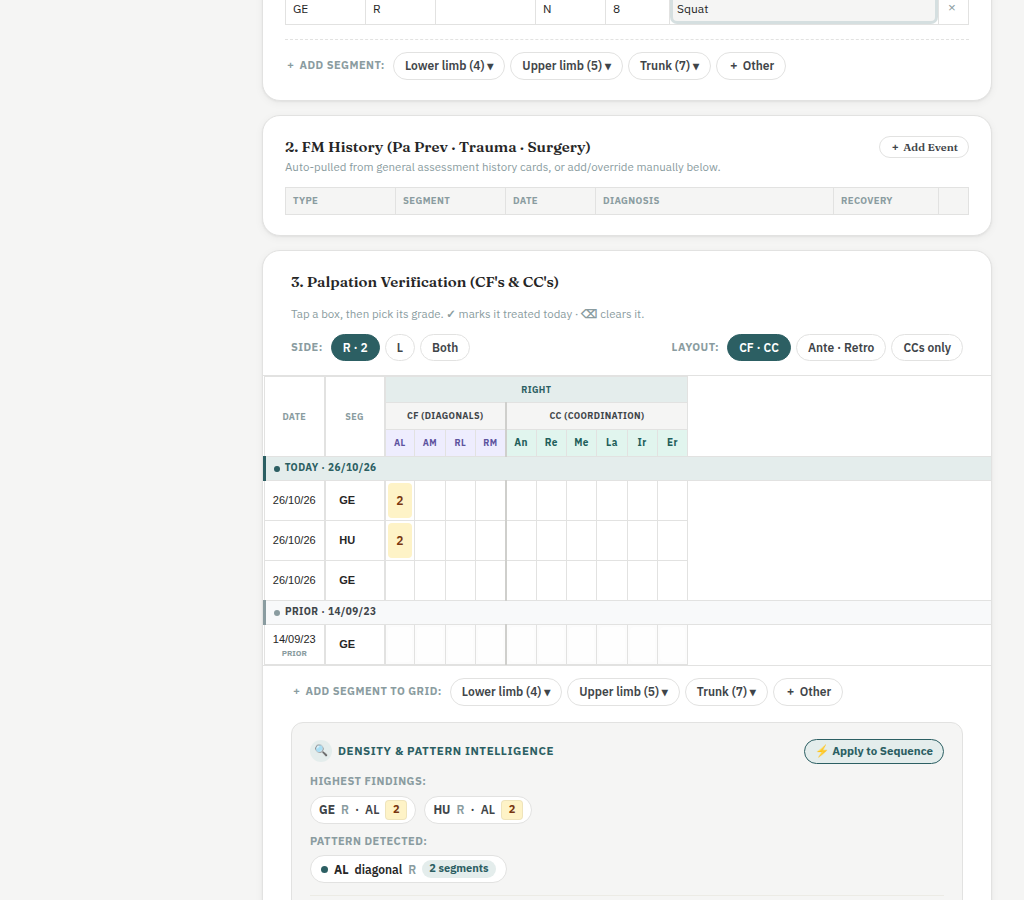
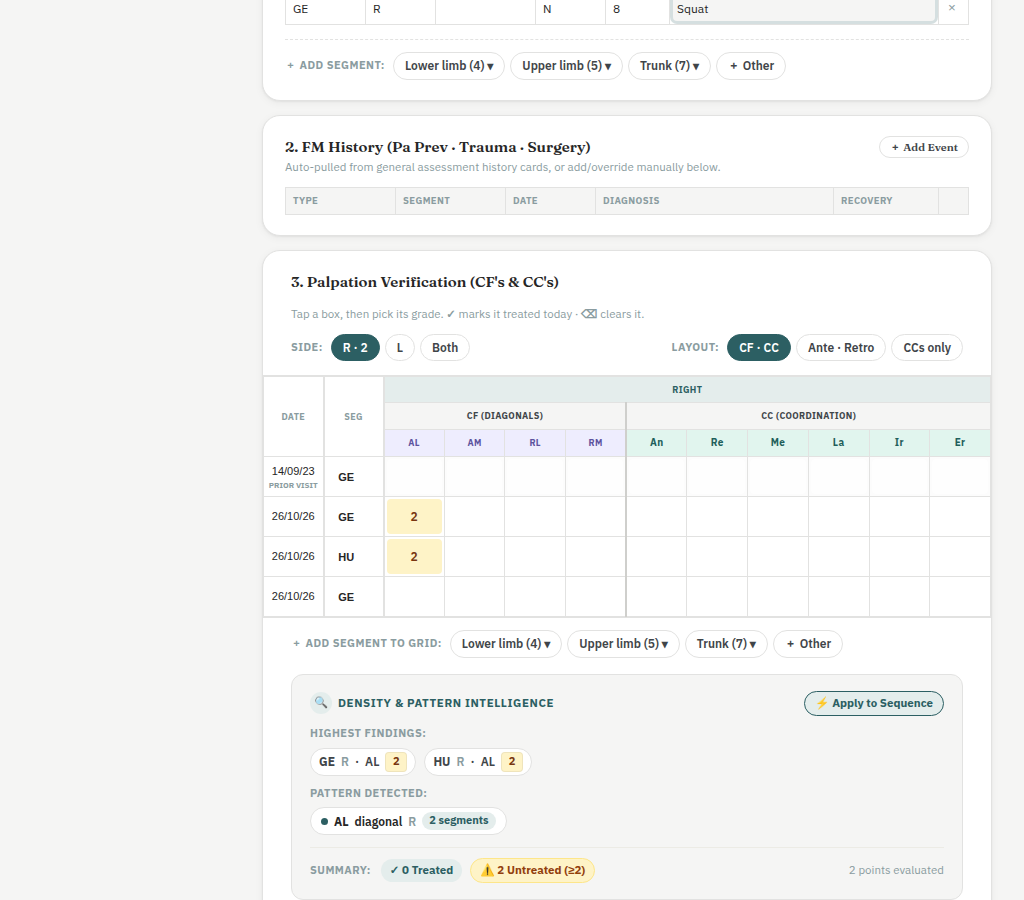
feat(fm): decouple complaints autofill from PV table, restore per-row dates, and verify core assessment wiring

diff --git a/clinical-note.html b/clinical-note.html
@@ -578,31 +578,7 @@
   
   .pv-t th.sticky-col, .pv-t td.sticky-col { position:sticky; left:0; background:#fff; z-index:2; border-right:2px solid var(--line); }
   .pv-t th.sticky-col:nth-child(2), .pv-t td.sticky-col:nth-child(2) { left:60px; }
-
-  /* Session side heading rows in PV grid */
-  .pv-t tr.pv-session-banner-row td {
-    padding: 3px 6px !important;
-    height: 24px !important;
-    text-align: left !important;
-    background: #F8F9FA !important;
-    border-top: 1px solid var(--line) !important;
-    border-bottom: 1px solid var(--line) !important;
-    border-right: none !important;
-  }
-  .pv-t tr.pv-session-banner-row td.sticky-col {
-    background: #F8F9FA !important;
-    border-right: none !important;
-  }
-  .pv-t tr.pv-session-banner-row.banner-today td {
-    background: var(--clinical-dim, #f0f7f7) !important;
-  }
-  .pv-t tr.pv-session-banner-row.banner-today td.sticky-col {
-    background: var(--clinical-dim, #f0f7f7) !important;
-    border-left: 3px solid var(--clinical, #008080) !important;
-  }
-  .pv-t tr.pv-session-banner-row.banner-prior td.sticky-col {
-    border-left: 3px solid var(--ink-faint, #94a3b8) !important;
-  }
+  .pv-t tbody tr:hover .del-pv-seg-btn, .del-pv-seg-btn:focus { opacity: 1 !important; }
 
   .pv-t .pv-cf-head { background:#EEEDFE; color:#5D539E; }
   .pv-t .pv-cc-head { background:#E1F5EE; color:#1F5F5B; }
@@ -4097,6 +4073,7 @@
     if(aggOther && aggOther.value) aggChips.push(aggOther.value);
     window.routeFmSegment('primary-complaint', seg, side, duration, aggChips.join(', '));
   }
+  window.routePrimaryComplaintToFm = routePrimaryComplaintToFm;
   document.addEventListener('click', function(e){
     if(e.target.closest('#region-chips') || e.target.closest('#laterality') || e.target.closest('#onset-timeline-chips') || e.target.closest('#aggravating-chips')){
       setTimeout(routePrimaryComplaintToFm, 30);
@@ -8432,7 +8409,6 @@ setupSegmented('patient-progress');
         const activePlanes = new Set(cols.map(c => c.plane));
         const extraCols = PV_COLUMNS.filter(c => !activePlanes.has(c.plane));
         const fullCols = cols.concat(extraCols);
-        const restColSpan = fullCols.length * 2;
         const rows = document.querySelectorAll('#fm-pv-table tbody tr');
 
         function pvColClass(sideIdx, colIdx, col) {
@@ -8442,11 +8418,6 @@ setupSegmented('patient-progress');
         }
 
         rows.forEach(tr => {
-            if (tr.classList.contains('pv-session-banner-row')) {
-                const restTd = tr.querySelector('td:nth-child(2)');
-                if (restTd) restTd.colSpan = restColSpan;
-                return;
-            }
             const cells = Array.from(tr.querySelectorAll('td:not(.sticky-col)'));
             const map = {};
             cells.forEach(td => {
@@ -8533,13 +8504,13 @@ setupSegmented('patient-progress');
         }
     })();
 
-    function addFmSegment(dateStr, segStr) {
+    function addFmSegment(dateStr, segStr, addToPv = true, addToSeg = true) {
         let uniqueId = 'seg-' + Date.now() + Math.floor(Math.random() * 1000);
         const today = new Date().toLocaleDateString('en-GB', {day:'2-digit', month:'2-digit', year:'2-digit'});
         const isPrior = !!(dateStr && dateStr !== today);
         
         // --- 1. Add to Segment Assessment (Today's rows only) ---
-        if (!isPrior && segTableBody) {
+        if (!isPrior && segTableBody && addToSeg) {
             let trSeg = document.createElement('tr');
             trSeg.setAttribute('data-seg-id', uniqueId);
             trSeg.innerHTML = `
@@ -8555,60 +8526,25 @@ setupSegmented('patient-progress');
         }
 
         // --- 2. Add to PV Grid in active layout order ---
-        if (pvTableBody) {
-            const cols = getActivePvColumns(currentPvLayout);
-            const activePlanes = new Set(cols.map(c => c.plane));
-            const extraCols = PV_COLUMNS.filter(c => !activePlanes.has(c.plane));
-            const fullCols = cols.concat(extraCols);
-            const restColSpan = fullCols.length * 2; // Right + Left columns
-
-            // Ensure session side heading row exists for this date/session
-            const bannerClass = isPrior ? 'banner-prior' : 'banner-today';
-            let bannerRow = pvTableBody.querySelector(`tr.pv-session-banner-row[data-session-date="${dateStr || today}"]`);
-            if (!bannerRow) {
-                bannerRow = document.createElement('tr');
-                bannerRow.className = `pv-session-banner-row ${bannerClass}`;
-                bannerRow.setAttribute('data-session-date', dateStr || today);
-                if (isPrior) {
-                    bannerRow.innerHTML = `
-                        <td class="sticky-col" colspan="2" style="padding:4px 8px !important; z-index:3;">
-                            <div style="display:flex; align-items:center; gap:5px; white-space:nowrap;">
-                                <span style="display:inline-block; width:6px; height:6px; border-radius:50%; background:var(--ink-faint);"></span>
-                                <b style="font-size:10px; letter-spacing:.04em; text-transform:uppercase; color:var(--ink-soft); font-family:inherit;">Prior · ${dateStr}</b>
-                            </div>
-                        </td>
-                        <td colspan="${restColSpan}" style="background:#F8F9FA !important; border-left:none !important;"></td>
-                    `;
-                } else {
-                    bannerRow.innerHTML = `
-                        <td class="sticky-col" colspan="2" style="padding:4px 8px !important; z-index:3;">
-                            <div style="display:flex; align-items:center; gap:5px; white-space:nowrap;">
-                                <span style="display:inline-block; width:6px; height:6px; border-radius:50%; background:var(--clinical);"></span>
-                                <b style="font-size:10px; letter-spacing:.04em; text-transform:uppercase; color:var(--clinical); font-family:inherit;">Today · ${today}</b>
-                            </div>
-                        </td>
-                        <td colspan="${restColSpan}" style="background:var(--clinical-dim, #f0f7f7) !important; border-left:none !important;"></td>
-                    `;
-                }
-
-                // If adding prior, insert at bottom; if today, insert before first prior banner if exists
-                const firstPriorBanner = pvTableBody.querySelector('tr.pv-session-banner-row.banner-prior');
-                if (!isPrior && firstPriorBanner) {
-                    pvTableBody.insertBefore(bannerRow, firstPriorBanner);
-                } else {
-                    pvTableBody.appendChild(bannerRow);
-                }
-            }
-
+        if (pvTableBody && addToPv) {
             let trPv = document.createElement('tr');
             trPv.setAttribute('data-seg-id', uniqueId);
-            trPv.setAttribute('data-session-date', dateStr || today);
             if (isPrior) {
                 trPv.classList.add('fm-prior-row');
                 trPv.setAttribute('data-prior', 'true');
             }
-            let htmlPv = `<td class="sticky-col"><input type="text" value="${dateStr}" style="width:100%; border:none; background:transparent; font-size:11px; text-align:center; color:var(--ink);" readonly>${isPrior ? '<div style="font-size:8px; color:var(--ink-faint); font-weight:700; text-transform:uppercase; text-align:center; line-height:1; margin-top:1px;">Prior</div>' : ''}</td>`;
-            htmlPv += `<td class="sticky-col" style="left:60px;"><input type="text" value="${segStr}" class="pv-seg-name" list="fm-seg-codes" style="width:100%; border:none; background:transparent; font-size:11px; text-align:center; font-weight:700; color:var(--ink);" readonly></td>`;
+            let htmlPv = `<td class="sticky-col"><input type="text" value="${dateStr}" style="width:100%; border:none; background:transparent; font-size:11px; text-align:center; color:var(--ink);" readonly>${isPrior ? '<div style="font-size:8px; color:var(--ink-faint); font-weight:700; text-transform:uppercase; text-align:center; line-height:1; margin-top:1px;">Prior visit</div>' : ''}</td>`;
+            htmlPv += `<td class="sticky-col" style="left:60px;">
+                <div style="display:flex; align-items:center; justify-content:center; position:relative; width:100%; height:100%;">
+                    <input type="text" value="${segStr}" class="pv-seg-name" list="fm-seg-codes" style="width:100%; border:none; background:transparent; font-size:11px; text-align:center; font-weight:700; color:var(--ink);" ${isPrior ? 'readonly' : ''}>
+                    ${!isPrior ? '<button type="button" class="del-pv-seg-btn" title="Remove segment from grid" style="position:absolute; right:1px; top:50%; transform:translateY(-50%); border:none; background:transparent; color:var(--ink-faint); cursor:pointer; font-size:13px; line-height:1; padding:0 2px; opacity:0; transition:opacity .15s ease;">×</button>' : ''}
+                </div>
+            </td>`;
+            
+            const cols = getActivePvColumns(currentPvLayout);
+            const activePlanes = new Set(cols.map(c => c.plane));
+            const extraCols = PV_COLUMNS.filter(c => !activePlanes.has(c.plane));
+            const fullCols = cols.concat(extraCols);
 
             function pvColClass(sideIdx, colIdx, col) {
                 if (sideIdx > 0 && colIdx === 0) return 'div-left';
@@ -8626,21 +8562,11 @@ setupSegmented('patient-progress');
                 });
             });
             trPv.innerHTML = htmlPv;
-
-            // Insert trPv right after the banner or after the last row of this session
-            let nextSibling = bannerRow.nextSibling;
-            while (nextSibling && !nextSibling.classList.contains('pv-session-banner-row') && nextSibling.getAttribute && nextSibling.getAttribute('data-session-date') === (dateStr || today)) {
-                nextSibling = nextSibling.nextSibling;
-            }
-            if (nextSibling) {
-                pvTableBody.insertBefore(trPv, nextSibling);
-            } else {
-                pvTableBody.appendChild(trPv);
-            }
+            pvTableBody.appendChild(trPv);
         }
 
         // --- 3. Add to Mo/Ve Table (Today's rows only) ---
-        if (!isPrior) {
+        if (!isPrior && addToSeg) {
             syncMoveTable();
         }
     }
@@ -8806,7 +8732,7 @@ setupSegmented('patient-progress');
                 const chip = e.target.closest('.pv-seg-chip');
                 if (!chip) return;
                 const today = new Date().toLocaleDateString('en-GB', {day:'2-digit', month:'2-digit', year:'2-digit'});
-                addFmSegment(today, chip.getAttribute('data-seg'));
+                addFmSegment(today, chip.getAttribute('data-seg'), true, false);
             });
         }
 
@@ -8814,7 +8740,20 @@ setupSegmented('patient-progress');
         if (pvAddCustomBtn) {
             pvAddCustomBtn.addEventListener('click', function() {
                 const today = new Date().toLocaleDateString('en-GB', {day:'2-digit', month:'2-digit', year:'2-digit'});
-                addFmSegment(today, "");
+                addFmSegment(today, "", true, false);
+            });
+        }
+
+        if (pvTableBody) {
+            pvTableBody.addEventListener('click', function(e) {
+                const delBtn = e.target.closest('.del-pv-seg-btn');
+                if (delBtn) {
+                    const tr = delBtn.closest('tr');
+                    if (tr) {
+                        tr.remove();
+                        if (window.updateDensitySummary) window.updateDensitySummary();
+                    }
+                }
             });
         }
     })();
@@ -8985,17 +8924,7 @@ setupSegmented('patient-progress');
             
             tr.remove();
             let pvRow = document.querySelector(`#fm-pv-table tr[data-seg-id="${id}"]`);
-            if (pvRow) {
-                const sDate = pvRow.getAttribute('data-session-date');
-                pvRow.remove();
-                if (sDate) {
-                    const remainingInSession = document.querySelectorAll(`#fm-pv-table tr[data-session-date="${sDate}"]:not(.pv-session-banner-row)`);
-                    if (remainingInSession.length === 0) {
-                        const banner = document.querySelector(`#fm-pv-table tr.pv-session-banner-row[data-session-date="${sDate}"]`);
-                        if (banner) banner.remove();
-                    }
-                }
-            }
+            if (pvRow) pvRow.remove();
             syncMoveTable();
             
             if (window.updateDensitySummary) window.updateDensitySummary();
@@ -9168,7 +9097,7 @@ setupSegmented('patient-progress');
         }
         if(!existing){
             var today = new Date().toLocaleDateString('en-GB', {day:'2-digit', month:'2-digit', year:'2-digit'});
-            addFmSegment(today, segStr);
+            addFmSegment(today, segStr, false, true);
             // Auto-open region drawer matching this segment
             for (var rName in (window.FM_SEGMENT_DETAILS || {})) {
                 if ((window.FM_SEGMENT_DETAILS[rName] || []).some(function(item){ return item.code === segStr; })) {
@@ -9477,7 +9406,11 @@ setupSegmented('patient-progress');
     const histObserver = new MutationObserver(window.syncFmHistory);
     ['surgical-history-rows', 'trauma-history-rows', 'pain-history-rows'].forEach(id => {
         let el = document.getElementById(id);
-        if (el) histObserver.observe(el, { childList: true, subtree: true, attributes: true });
+        if (el) {
+            histObserver.observe(el, { childList: true, subtree: true, attributes: true });
+            el.addEventListener('change', window.syncFmHistory);
+            el.addEventListener('input', window.syncFmHistory);
+        }
     });
     setTimeout(window.syncFmHistory, 500);
 
@@ -9684,8 +9617,10 @@ window.openTier2Module = function(key) {
 };
 
 window.openAdvancedModule = function(key) {
-  if (key === 'fascial-manipulation' && window.applySmartPvSideView) {
-    window.applySmartPvSideView();
+  if (key === 'fascial-manipulation') {
+    if (window.routePrimaryComplaintToFm) window.routePrimaryComplaintToFm();
+    if (window.syncFmHistory) window.syncFmHistory();
+    if (window.applySmartPvSideView) window.applySmartPvSideView();
   }
   var sec = document.getElementById('sec-' + key);
   var nav = document.getElementById('nav-' + (key === 'fascial-manipulation' ? 'fm' : key));
